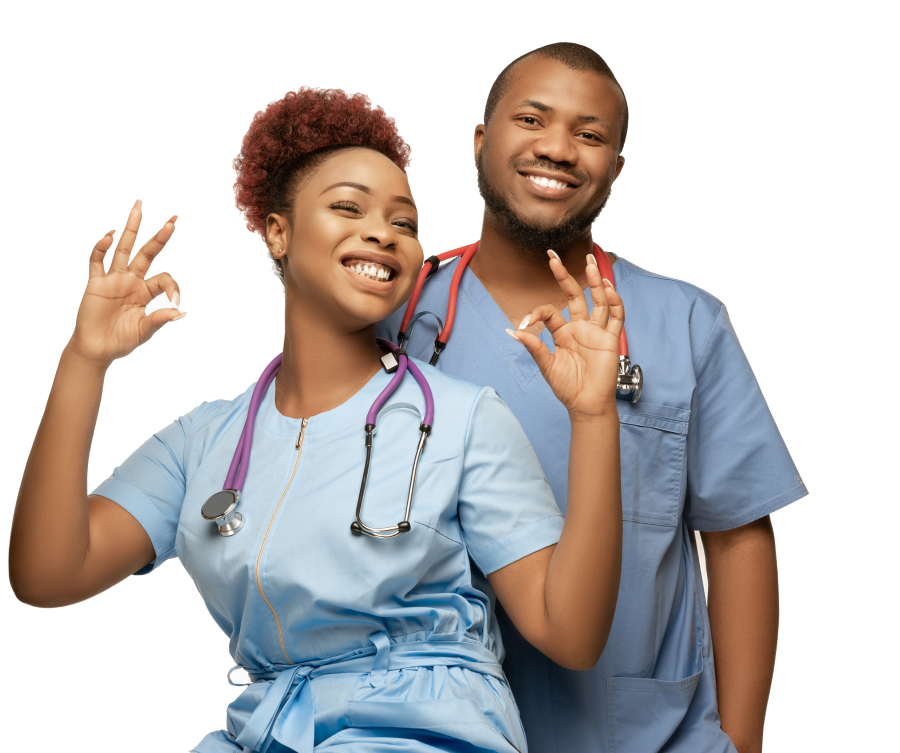
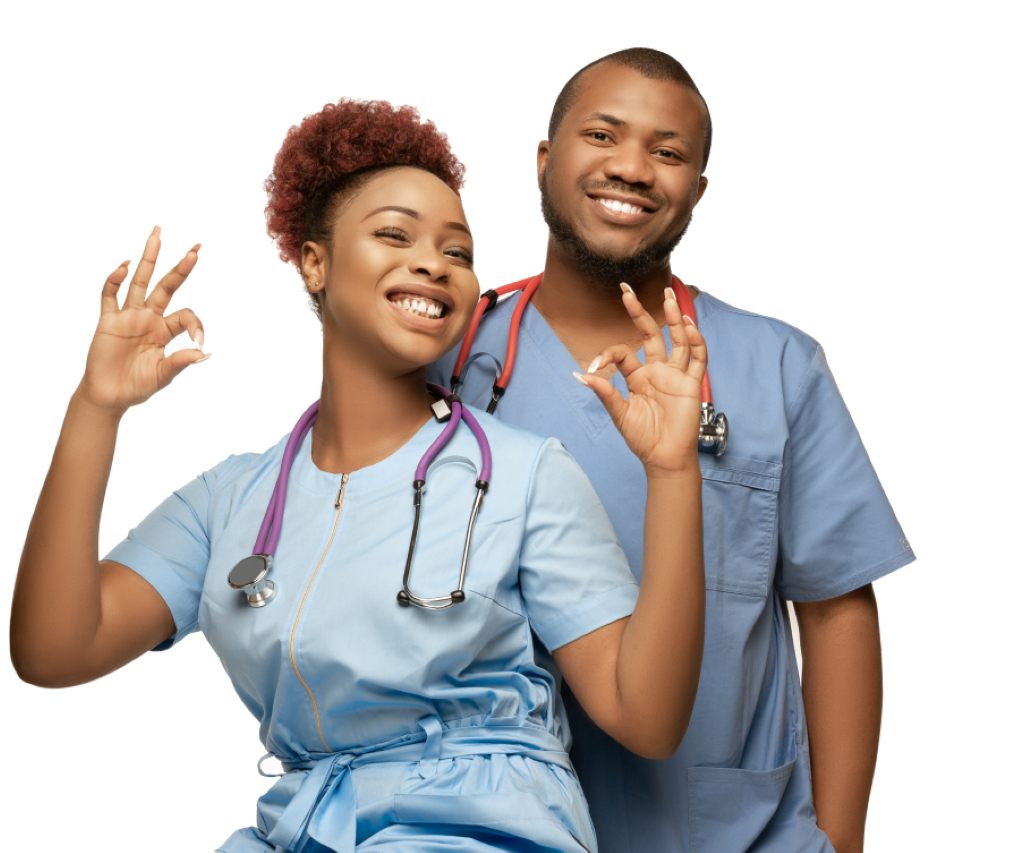
Corrected Distorted spacing

Changed region(s): [[0.4356, 0.6109, 0.4667, 0.7025], [0.6844, 0.4887, 0.7156, 0.5193], [0.4667, 0.336, 0.4978, 0.3665]]

diff --git a/src/Components/ToolsAccess.jsx b/src/Components/ToolsAccess.jsx
@@ -7,12 +7,12 @@ import Doctor from '../assets/doctor 1.png'
 
 const ToolsAccess = () => {
   return (
-    <div className='w-full flex-col flex items-center mb-52 lg:items-start gap-20'>
-        <div className='flex flex-col xl:flex-row items-center justify-between gap-3 p-4'>
-            <div className='flex items-end flex-shrink-0 w-[60%]'>
-                <img src={Tech} alt="" className='object-cover w-full lg:w-[60%] self-end mx-auto' />
+    <div className=' flex-col flex items-center mb-52 lg:items-start gap-20 mx-auto w-[90%]'>
+        <div className='flex flex-col xl:flex-row items-center justify-between gap-3 w-full lg:w-[90%] mx-auto lg:gap-0 p-4'>
+            <div className='items-end flex-shrink-0 w-[45%] place-content-end'>
+                <img src={Tech} alt="" className='object-cover w-full lg:w-[85%] justify-end self-end lg:ml-auto' />
             </div>
-            <div className='flex flex-col items-start justify-center p-4 lg:px-48 gap-4'>
+            <div className='flex flex-col items-start justify-start text-left lg:h-96 p-4 lg:px-12 gap-4'>
                 <h4 className='play font-extrabold leading-4 md:leading-7 lg:leading-9 tracking-tight text-3xl lg:text-4xl'>Powerful tools.</h4>
                 <h4 className='play font-extrabold leading-4 md:leading-7 lg:leading-9 tracking-tight text-3xl lg:text-4xl text-[#54D4BD]'>More control.</h4>
                 <p className='roboto font-normal leading-6 text-xs lg:text-sm text-[#CBD5E1]'>Scelerisque auctor dolor diam tortor, fames faucibus non interdum nunc. Ultrices nibh sapien elit gravida ac, rutrum molestie adipiscing lacinia.</p>
@@ -39,8 +39,8 @@ const ToolsAccess = () => {
             </div>
         </div>
 
-        <div className='flex flex-col xl:flex-row items-center justify-between gap-3 p-4'>
-            <div className='flex flex-col items-start justify-center p-4 lg:px-48 gap-4'>
+        <div className='flex flex-col xl:flex-row items-center justify-between w-full lg:w-[90%] mx-auto gap-3 lg:gap-0 p-4'>
+            <div className='flex flex-col items-start justify-center p-4 lg:px-16 gap-4'>
                 <h4 className='play font-extrabold leading-7 lg:leading-9 tracking-tight text-3xl lg:text-4xl'>Increasing Access to Quality</h4>
                 <h4 className='play font-extrabold leading-4 md:leading-7 lg:leading-9 tracking-tight text-3xl lg:text-4xl text-[#54D4BD] capitalize'>life-saving machines</h4>
                 <p className='roboto font-normal leading-6 text-xs lg:text-sm'>We assist with financing to minimise upfront costs as well as operational and maintenance support. This helps you get the most out of the equipment and ensure the best quality care to your patients and the public.</p>
@@ -65,8 +65,8 @@ const ToolsAccess = () => {
                     </div>
                 </ul>
             </div>
-            <div className='flex items-start flex-shrink-0 w-full lg:w-[60%]'>
-                <img src={Doctor} alt="" className='object-cover w-full lg:w-[60%] self-start mx-auto' />
+            <div className='items-center flex-shrink-0 w-[45%] '>
+                <img src={Doctor} alt="" className='object-cover w-full self-start mr-auto' />
             </div>
             
         </div>

diff --git a/src/Components/Testimonials.jsx b/src/Components/Testimonials.jsx
@@ -35,14 +35,14 @@ const Testimonials = () => {
             <div className='flex items-center lg:border-t-2 pt-3 lg:pt-[-10] lg:border-t-[#54D4BD] justify-between flex-row gap-3 '>
                 <img src={elipse1} alt="" className='w-10 h-10' />
                 <div className='flex flex-col items-start justify-between'>
-                    <h4 className='font-semibold text-base tracking-wide leading-3 '>Ruthvietnamerford Brannan</h4>
+                    <h4 className='font-semibold text-base tracking-wide leading-3 '>Rutherford Brannan</h4>
                     <p className='text-xs font-normal leading-3 py-2 drop-shadow-2xl text-[#54D4BD] vietnam'>Design director of Perfect Illustration</p>
                 </div>
             </div>
             <div className='flex items-center justify-between flex-row gap-3 '>
                 <img src={elipse2} alt="" className='w-10 h-10' />
                 <div className='flex flex-col items-start justify-between'>
-                    <h4 className='font-semibold text-base tracking-wide leading-1 '>vietnamHenry Itondo</h4>
+                    <h4 className='font-semibold text-base tracking-wide leading-1 '>Henry Itondo</h4>
                     <p className='text-xs font-normal leading-3 py-2 drop-shadow-2xl text-[#54D4BD] vietnam'>Co-founder of Source DS</p>
                 </div>
             </div>

diff --git a/src/Components/OurServices.jsx b/src/Components/OurServices.jsx
@@ -1,5 +1,5 @@
 import React from 'react'
-import BG from '../assets/BG.svg'
+import BG from '../assets/BG.png'
 // import Shape from '../assets/Shape.svg'
 import Icon1 from '../assets/Icons-support.svg'
 import Icon2 from '../assets/Icons-invest.svg'
